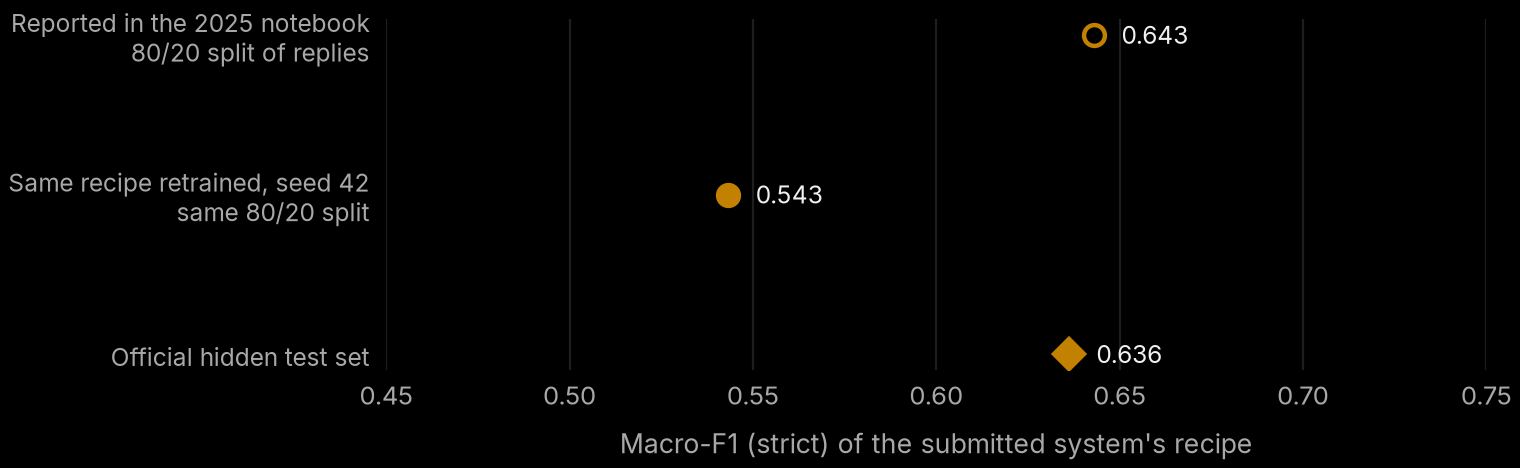
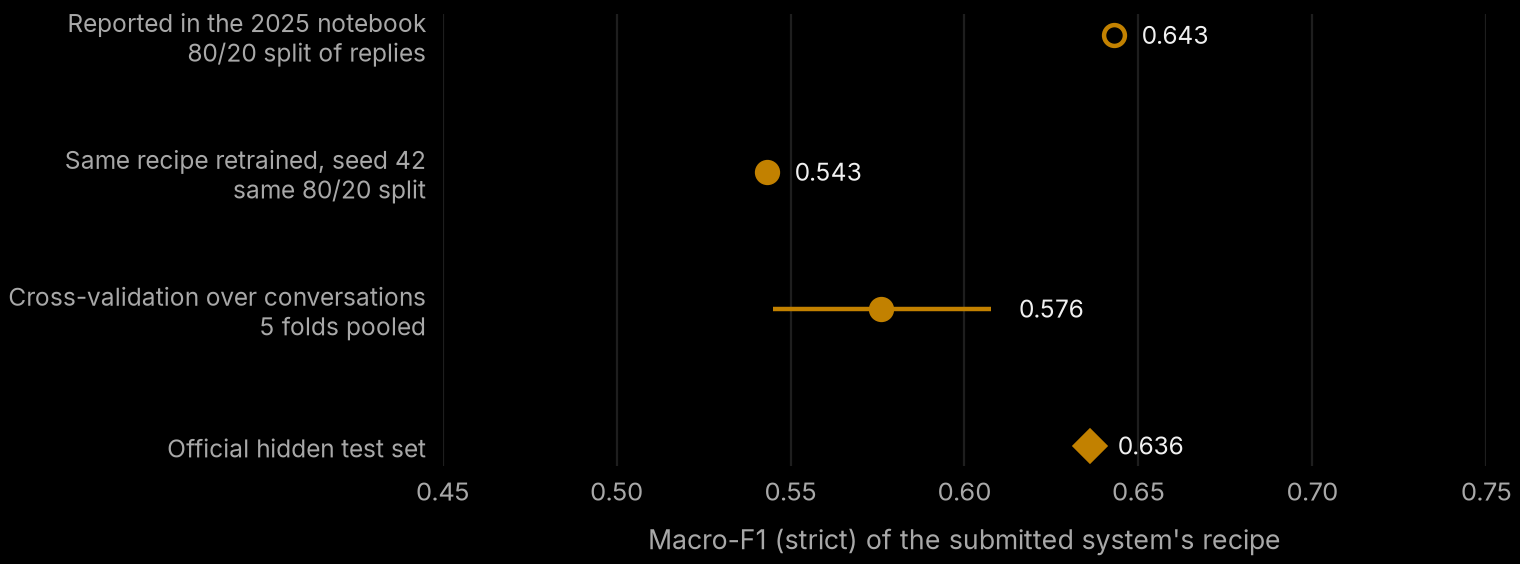
Every system scored with and without the decision rule; ladder figure shows both

diff --git a/scripts/make_figures.py b/scripts/make_figures.py
@@ -204,30 +204,44 @@ LADDER_ROWS = [("ala_bert", "ALA, submitted recipe (BERT)"), ("bert_pair", "+ in
 
 
 def fig_ladder(S):
+    """Each system twice: hollow = plain argmax, filled = with the tuned decision rule (and its
+    95% interval). The exploratory conversation-aware stage is a diamond."""
     sysd, F = S["systems"], S.get("final")
-    rows = [(lab, sysd[k]["pooled"]["strict_f1"], *sysd[k]["strict_f1_ci"], OLD if k == "ala_bert" else NEUTRAL)
-            for k, lab in LADDER_ROWS if k in sysd]
+    rows = []   # label, argmax, rule, lo, hi, colour, marker
+    for k, lab in LADDER_ROWS:
+        if k in sysd:
+            s = sysd[k]
+            rows.append((lab, s["pooled"]["strict_f1"], s["rule"]["strict_f1"], *s["rule"]["strict_f1_ci"],
+                         OLD if k == "ala_bert" else NEUTRAL, "o"))
     if F:
-        rows.append((f"Ensemble of {len(F['members'])} backbones", F["ensemble_argmax"]["strict_f1"],
-                     *F["ensemble_argmax"]["strict_f1_ci"], NEW))
-        rows.append(("Ensemble + tuned decision rule", F["ensemble_crossfit_offsets"]["strict_f1"],
-                     *F["ensemble_crossfit_offsets"]["strict_f1_ci"], NEW))
+        e = F["ensemble_crossfit_offsets"]
+        rows.append((f"Ensemble of the {len(F['members'])} backbones", F["ensemble_argmax"]["strict_f1"], e["strict_f1"],
+                     *e["strict_f1_ci"], NEW, "o"))
+        if "exploratory" in F:
+            x = F["exploratory"]["stacked"]
+            rows.append(("+ compare with the other replies\n(exploratory)", None, x["strict_f1"], *x["strict_f1_ci"], NEW, "D"))
     if not rows:
         return
-    fig, ax = plt.subplots(figsize=(TEXT, 0.42 * len(rows) + 1.0))
+    fig, ax = plt.subplots(figsize=(TEXT, 0.44 * len(rows) + 1.25))
     hbar_axes(ax)
     tf = S["baselines"]["tfidf_response_grouped"]["strict_f1"]
     ax.axvline(tf, color=FAINT, lw=0.9, ls=(0, (3, 3)), zorder=0)
-    say(ax, (tf, len(rows) - 0.4), "TF-IDF + logistic\nregression, reply only", color=DIM, dx=-4, ha="right", va="bottom", size=8.2)
-    for i, (label, v, lo, hi, col) in enumerate(rows):
+    say(ax, (tf, -0.75), "TF-IDF + logistic regression on the reply", color=DIM, dx=5, ha="left", va="center", size=8.2)
+    for i, (label, am, rule, lo, hi, col, mk) in enumerate(rows):
         y = len(rows) - 1 - i
-        ax.plot([lo, hi], [y, y], color=col, lw=1.6, solid_capstyle="butt")
-        ax.plot(v, y, "o", ms=7, color=col, zorder=3)
-        say(ax, (hi, y), f"{v:.3f}", color=INK, dx=8, size=8.8)
+        ax.plot([lo, hi], [y, y], color=col, lw=1.6, solid_capstyle="butt", zorder=2)
+        if am is not None:
+            ax.plot(am, y, marker="o", ms=6.5, mfc=BG, mec=col, mew=1.4, ls="none", zorder=3)
+        ax.plot(rule, y, marker=mk, ms=7.5 if mk == "o" else 7, color=col, ls="none", zorder=4)
+        say(ax, (hi, y), f"{rule:.3f}", color=INK, dx=8, size=8.8)
     ax.set_yticks(range(len(rows)), [r[0] for r in rows][::-1], fontsize=8.8)
-    ax.set_xlim(0.45, 0.8)
-    ax.set_ylim(-0.6, len(rows) - 0.1)
-    ax.set_xlabel("Macro-F1 (strict), conversation-grouped 5-fold cross-validation, with 95% interval")
+    ax.set_xlim(0.5, 0.75)
+    ax.set_ylim(-1.1, len(rows) - 0.4)
+    ax.set_xlabel("Macro-F1 (strict), conversation-grouped 5-fold cross-validation")
+    h = [plt.Line2D([], [], marker="o", ls="none", mfc=BG, mec=DIM, mew=1.4, ms=6.5),
+         plt.Line2D([], [], marker="o", ls="-", color=DIM, ms=7.5, lw=1.6)]
+    ax.legend(h, ["Most probable class", "With the tuned decision rule, 95% interval"], loc="lower left",
+              bbox_to_anchor=(0, 1.0), ncol=2)
     save(fig, "ladder.png")
 
 

diff --git a/scripts/analyze.py b/scripts/analyze.py
@@ -153,22 +153,38 @@ def system_entry(run, y, groups, ref_pred=None):
     ev["minutes_per_fold"] = float(np.mean([m["total_seconds"] for m in run["meta"]]) / 60)
     if ref_pred is not None:
         ev["vs_ala"] = paired_difference(y, pred, ref_pred, groups, n_boot=N_BOOT)
+    # The same model with the tuned decision rule (offsets cross-fitted over the folds).
+    rule_pred, offs = crossfit_offsets(run["oof"], y, run["fold"])
+    ev["rule"] = scores(y, rule_pred)
+    ci = bootstrap(y, {"m": rule_pred}, groups, n_boot=N_BOOT)["m"]
+    ev["rule"]["strict_f1_ci"] = [ci["lo"], ci["hi"]]
+    ev["rule"]["mean_offsets"] = np.mean(offs, axis=0).tolist()
+    ev["_rule_pred"] = rule_pred
     return ev
 
 
 def ladder_section(y, groups):
+    """Every single-model system, each with and without the decision rule. Paired differences
+    against the previous ladder step and against ALA are computed with the rule applied to both
+    sides, since the rule is part of the method and helps the old recipe too."""
     out, prev = {}, None
     ala = available("ala_bert")
     ref = ala["oof"].argmax(-1) if ala else None
+    ala_rule = None
     for name in LADDER + [m for m in FINAL_MEMBERS if m not in LADDER]:
         run = available(name)
         if not run:
             continue
         entry = system_entry(run, y, groups, ref)
+        rule_pred = entry.pop("_rule_pred")
+        if name == "ala_bert":
+            ala_rule = rule_pred
+        elif ala_rule is not None:
+            entry["rule_vs_ala_rule"] = paired_difference(y, rule_pred, ala_rule, groups, n_boot=N_BOOT)
         if prev is not None and name in LADDER:
-            entry["vs_previous"] = paired_difference(y, run["oof"].argmax(-1), prev, groups, n_boot=N_BOOT)
+            entry["rule_vs_previous"] = paired_difference(y, rule_pred, prev, groups, n_boot=N_BOOT)
         if name in LADDER:
-            prev = run["oof"].argmax(-1)
+            prev = rule_pred
         entry["label"] = NAMES.get(name, name)
         out[name] = entry
     return out
